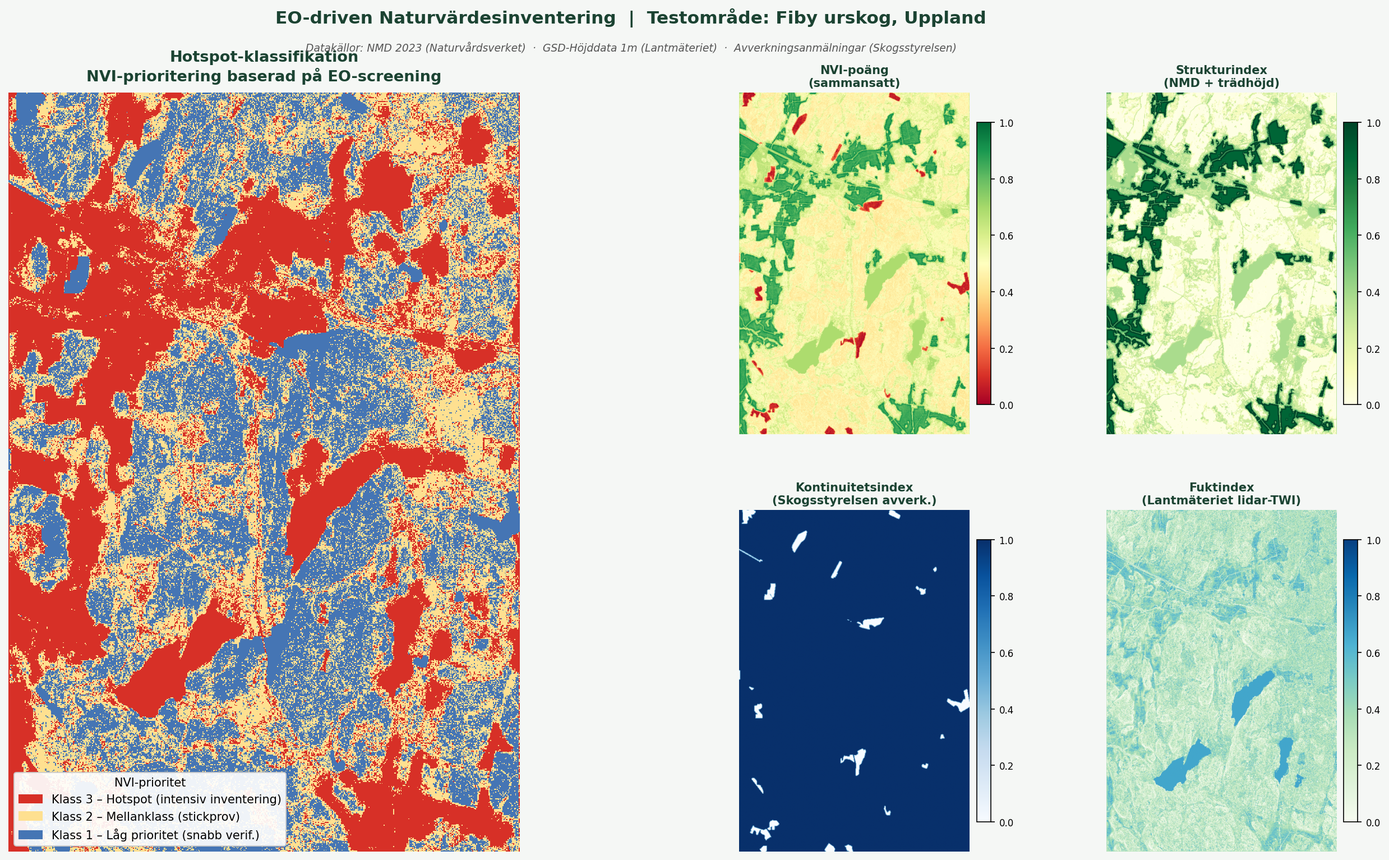
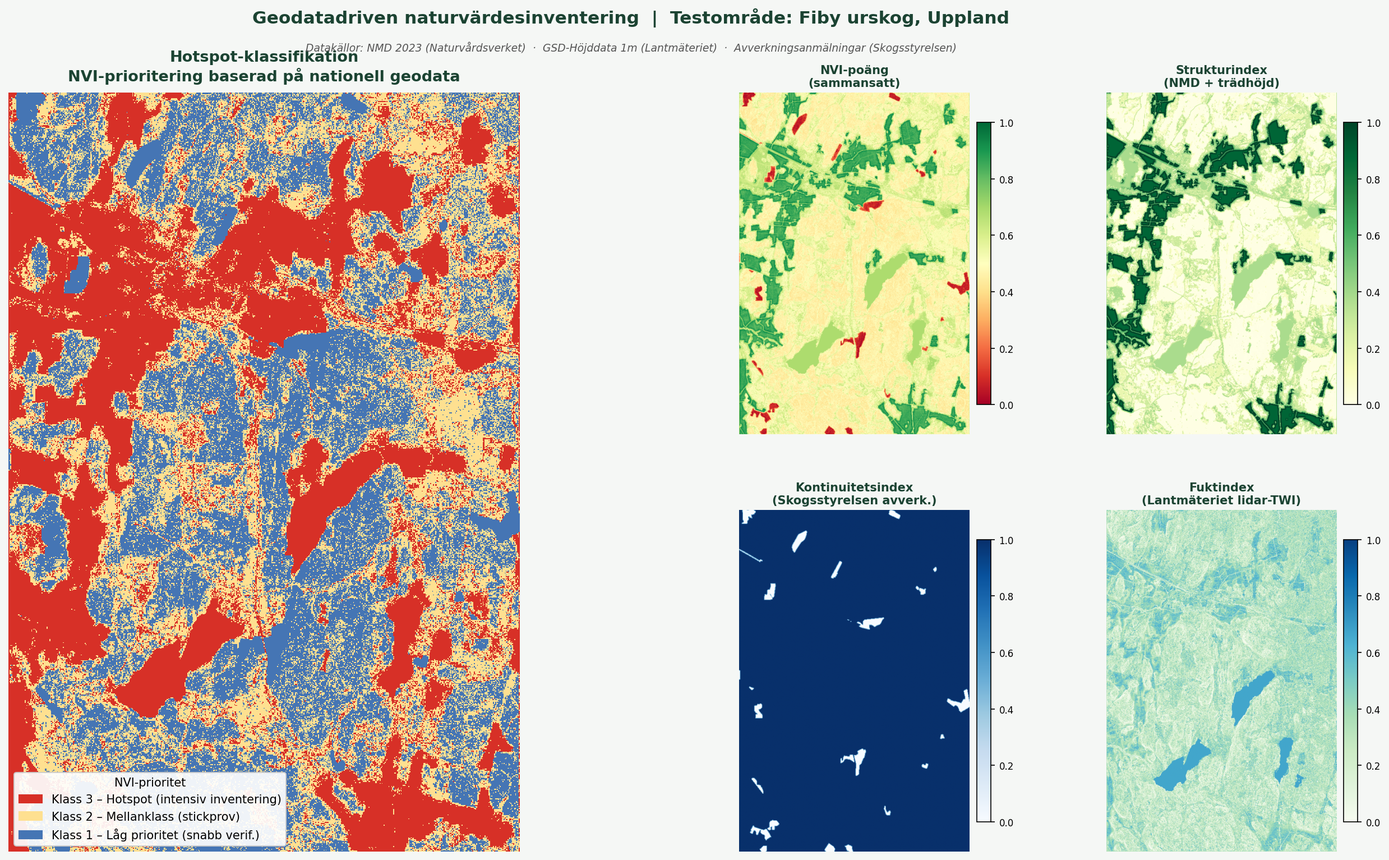
Uppdatera showcase: svenska hero, ta bort GEE i diagram, en NMD-rad i tabell
Made-with: Cursor

Changed region(s): [[0.1865, 0.0, 0.7461, 0.0307], [0.0622, 0.0613, 0.3419, 0.092]]

diff --git a/docs/index.html b/docs/index.html
@@ -3,7 +3,7 @@
 <head>
   <meta charset="UTF-8">
   <meta name="viewport" content="width=device-width, initial-scale=1.0">
-  <title>EO-driven Naturvärdesinventering – Johan Karlsson</title>
+  <title>EO-driven naturvärdesinventering – Johan Karlsson</title>
   <style>
     :root {
       --green-dark:  #1b4332;
@@ -308,8 +308,8 @@
 
 <!-- ── Hero ── -->
 <div class="hero">
-  <div class="tag">GIS &nbsp;·&nbsp; Remote Sensing &nbsp;·&nbsp; Naturvård</div>
-  <h1>Remote sensing-driven biodiversity screening + <em>targeted NVI</em></h1>
+  <div class="tag">GIS &nbsp;·&nbsp; Fjärranalys &nbsp;·&nbsp; Naturvård</div>
+  <h1>Fjärranalysdriven prioritering och <em>riktad NVI</em></h1>
   <p>En reproducerbar hybridmetod som bygger på svenska nationella öppna geodata för att prioritera och effektivisera naturvärdesinventering i fält.</p>
   <div class="hero-badges">
     <span class="badge">NMD 2023 (Naturvårdsverket)</span>
@@ -344,17 +344,17 @@
 <section id="metod">
   <div class="container">
     <h2>Metodöversikt</h2>
-    <p class="section-lead">Arbetsflödet består av sex steg — från automatiserad EO-screening till fältverifiering och reproducerbar klassning.</p>
+    <p class="section-lead">Arbetsflödet består av sex steg — från automatiserad screening med nationell geodata till fältverifiering och reproducerbar klassning.</p>
 
     <div class="diagram-wrap">
-      <img src="assets/method_diagram.png" alt="Metoddiagram – 6 steg i EO-driven NVI-workflow">
+      <img src="assets/method_diagram.png" alt="Metoddiagram – sex steg från nationell geodata till riktad NVI">
     </div>
 
     <div class="steps-grid">
 
       <div class="step-card">
         <div class="step-num">1</div>
-        <h3>EO-screening (pre-NVI)</h3>
+        <h3>Geodatabaserad screening (pre-NVI)</h3>
         <p>Svenska nationella geodata analyseras för att identifiera potentiella värdekärnor — utan ett enda fältsteg. Fokus på skogsstruktur, kontinuitet och hydrologi.</p>
         <span class="tag-pill">NMD 2023 · Lidar DTM · Skogsstyrelsen</span>
       </div>
@@ -406,7 +406,7 @@
 
     <div class="map-wrap">
       <img src="assets/hotspot_showcase.png"
-           alt="EO-driven NVI hotspot-karta och delindex – Fiby urskog">
+           alt="NVI hotspot-karta och delindex baserat på NMD, lidar och avverkningsdata – Fiby urskog">
     </div>
 
     <div class="map-legend">
@@ -436,7 +436,7 @@
 <section id="data">
   <div class="container">
     <h2>Datakällor</h2>
-    <p class="section-lead">Alla datakällor är svenska öppna geodata utan licensavgift.</p>
+    <p class="section-lead">Den publicerade pipelinen använder enbart svenska nationella öppna geodata utan licensavgift.</p>
 
     <table class="data-table">
       <thead>
@@ -450,10 +450,10 @@
       </thead>
       <tbody>
         <tr>
-          <td><span class="source-name">NMD 2023 – Basskikt + Trädslag + Objekthöjd</span></td>
+          <td><span class="source-name">NMD 2023 – basskikt, trädslag och objekthöjd</span></td>
           <td>Naturvårdsverket</td>
           <td>10 m</td>
-          <td>Strukturindex – skogsklasser, trädslag (ädellöv), trädhöjd</td>
+          <td>Strukturindex – skogsklasser, ädellövsträd (ek, bok, ask m.fl.), trädhöjd</td>
           <td><span class="chip">Öppen data</span></td>
         </tr>
         <tr>
@@ -468,13 +468,6 @@
           <td>Skogsstyrelsen</td>
           <td>Polygon</td>
           <td>Kontinuitetsindex – störningshistorik sedan 2000-talet</td>
-          <td><span class="chip">Öppen data</span></td>
-        </tr>
-        <tr>
-          <td><span class="source-name">Nationell Marktäckedata (NMD) 2023 – Trädslag</span></td>
-          <td>Naturvårdsverket</td>
-          <td>10 m</td>
-          <td>Strukturindex – ädellövsbonus (ek, bok, ask m.fl.)</td>
           <td><span class="chip">Öppen data</span></td>
         </tr>
       </tbody>
@@ -505,7 +498,7 @@
         <tr>
           <td class="dim">Spatial täckning</td>
           <td class="bad">Begränsad</td>
-          <td class="good">Nästan fullständig via EO-screening</td>
+          <td class="good">Nästan fullständig via geodatabaserad screening</td>
         </tr>
         <tr>
           <td class="dim">Urvalsförskjutning (bias)</td>

diff --git a/scripts/python/generate_showcase.py b/scripts/python/generate_showcase.py
@@ -67,7 +67,7 @@ def make_hotspot_figure() -> None:
         aspect="equal"
     )
     ax_main.set_title(
-        "Hotspot-klassifikation\nNVI-prioritering baserad på EO-screening",
+        "Hotspot-klassifikation\nNVI-prioritering baserad på nationell geodata",
         fontsize=13, fontweight="bold", pad=10, color="#1b4332"
     )
     ax_main.axis("off")
@@ -106,7 +106,7 @@ def make_hotspot_figure() -> None:
     # ── Rubrik ────────────────────────────────────────────────────────────────
     fig.text(
         0.5, 0.955,
-        "EO-driven Naturvärdesinventering  |  Testområde: Fiby urskog, Uppland",
+        "Geodatadriven naturvärdesinventering  |  Testområde: Fiby urskog, Uppland",
         ha="center", fontsize=15, fontweight="bold", color="#1b4332"
     )
     fig.text(
@@ -131,7 +131,7 @@ def make_method_diagram() -> None:
         ("3", "Sampling-design",   "Stratifiering\nHotspot / Mellan / Låg",  "#52b788"),
         ("4", "Fältinventering",   "Riktad NVI\nSignalarter · Substrat",     "#74c69d"),
         ("5", "Kvantifiering",     "Naturvärdesindex\nf(struktur+kont.+art)", "#95d5b2"),
-        ("6", "Reproducerbarhet",  "GEE · Python · QGIS\nNytt område = ny kör", "#b7e4c7"),
+        ("6", "Reproducerbarhet",  "Python · QGIS\nNytt område = ny kör", "#b7e4c7"),
     ]
 
     fig, ax = plt.subplots(figsize=(14, 3.2), facecolor="#f5f7f5")
@@ -173,7 +173,7 @@ def make_method_diagram() -> None:
 
     fig.text(
         0.5, 0.97,
-        "Metodöversikt: EO-driven NVI-workflow",
+        "Metodöversikt: nationell geodata → riktad NVI",
         ha="center", fontsize=11, fontweight="bold", color="#1b4332"
     )
 
